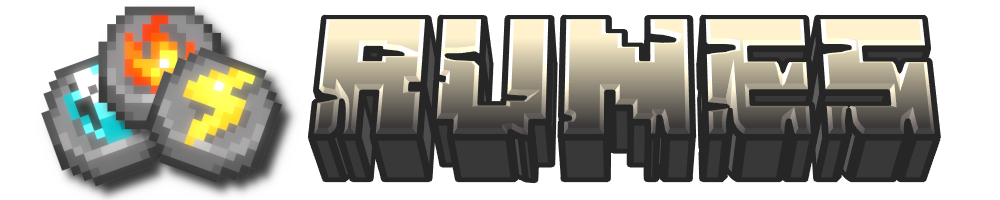
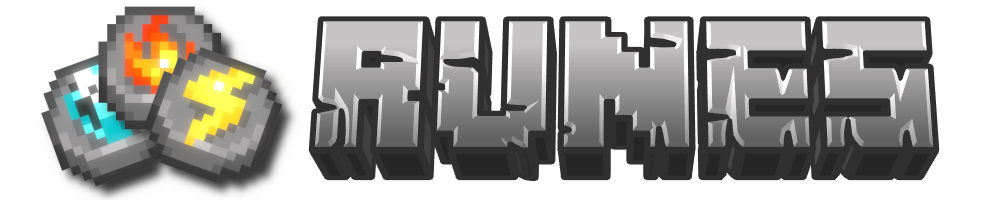
Update title and readme

diff --git a/README.md b/README.md
@@ -1,6 +1,5 @@
 ![Runes](.github/icon_and_title.png)
 
-
 <div align="center">
 
 <a href="">![Java 17](https://img.shields.io/badge/Java%2017-ee9258?logo=coffeescript&logoColor=ffffff&labelColor=606060&style=flat-square)</a>
@@ -11,12 +10,6 @@
 
 # 🪨 Features
 
-Adds rune stones to the game.
+Adds rune stones and rune crafting altar to the game.
 
-## 📦 Content
-
-Asd.
-
-# 🔧 Configuration
-
-**Server side** configuration can be found in the `config` directory, after running the game with the mod installed.
+Rune crafting altar comes with its own recipe type, which is very similar in format to Smithing Table recipes. Examples can be seen [here](src/main/resources/data/recipes).
